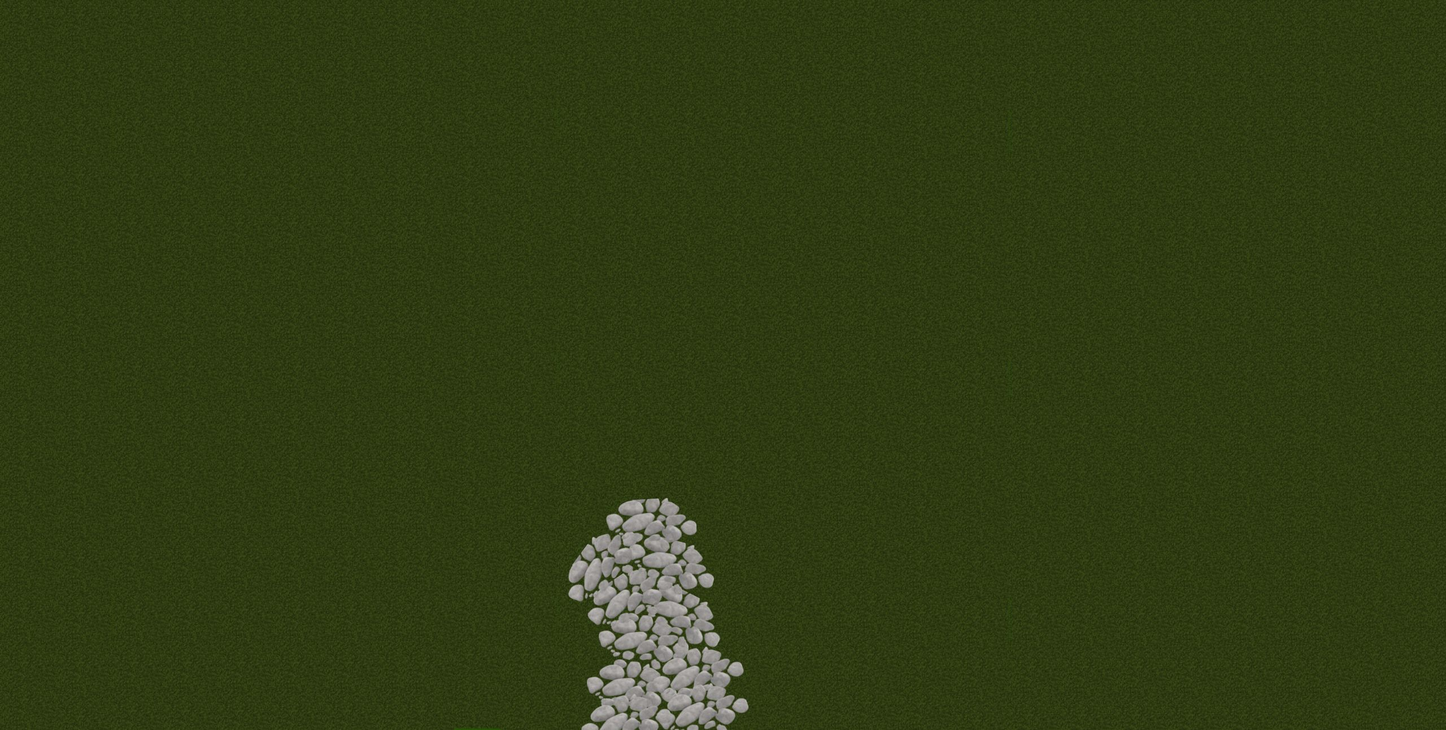
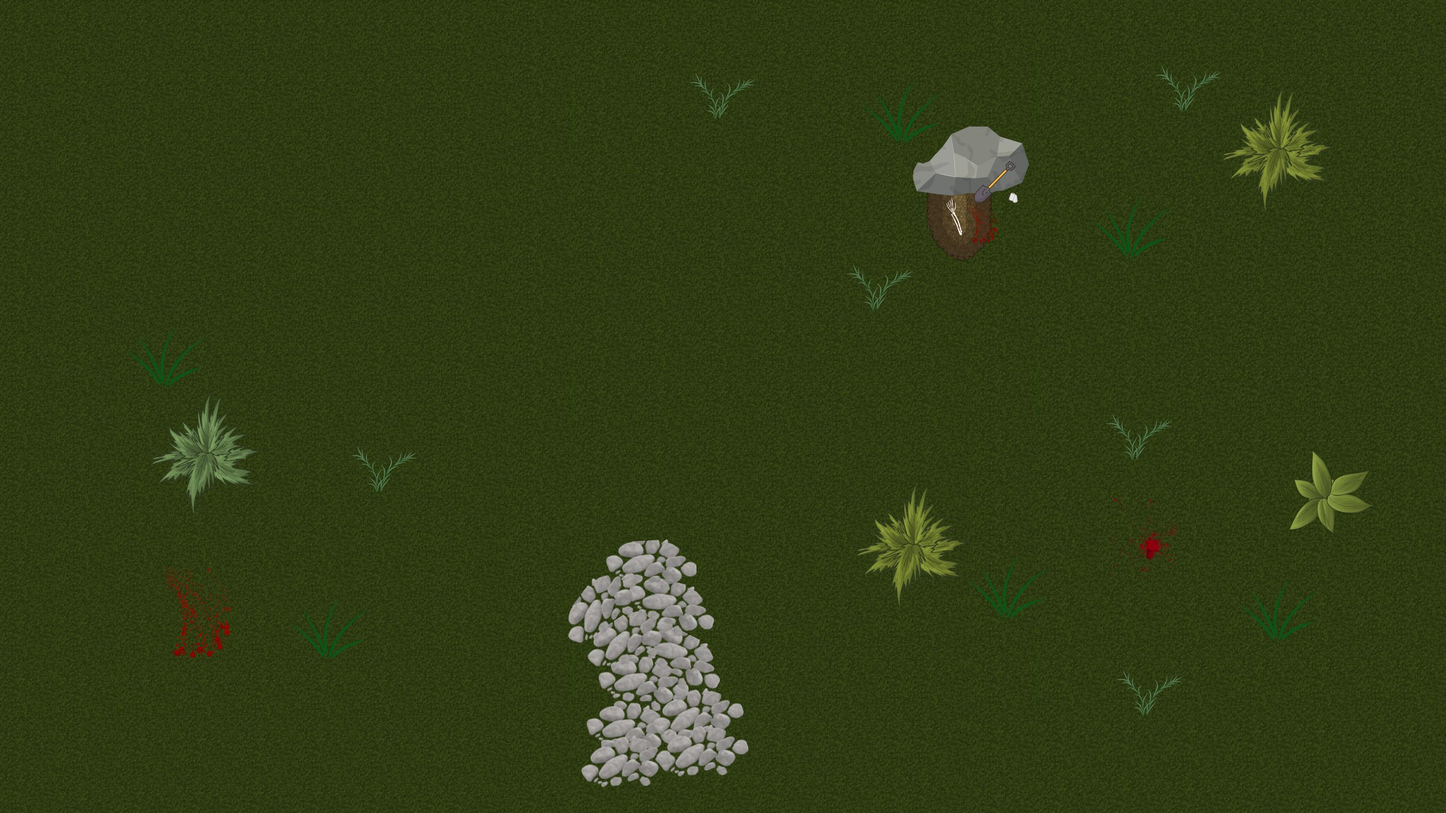
🔥 Clean and resolve some errors

diff --git a/src/Class/GameEngine.ts b/src/Class/GameEngine.ts
@@ -74,15 +74,15 @@ export class GameEngine {
 
   makeMap() {
     this.objects.push(
-      new Inanimate({ x: 0, y: 6 }, { h: 400, w: 250 }, "car", 0),
-      new Inanimate({ x: 25, y: 30 }, { h: 175, w: 300 }, "camp", 0)
+      new Inanimate({ x: 0, y: 10 }, { h: 400, w: 250 }, "car", 0),
+      new Inanimate({ x: 25, y: 30 }, { h: 175, w: 300 }, "camp", 0),
+      new Inanimate({ x: 23, y: 30 }, { h: 175, w: 300 }, "bed", 290)
     );
   }
 
   manageClock() {
     this.clock.update();
     const maxLevel = 5;
-    const numberDays = maxLevel - 1;
 
     for (let index = 0; index < maxLevel; index++) {
       if (this.clock.getDays() === index) {
@@ -90,9 +90,8 @@ export class GameEngine {
 
         if (
           this.gameLevel.getLevel() === index &&
-          this.clock.getDays() !== (0 || numberDays)
+          this.clock.getDays() !== (0 || maxLevel)
         ) {
-          console.log(this.clock);
           this.levelUp();
         }
         if (this.allDead && this.gameLevel.getLevel() === maxLevel) {
@@ -118,6 +117,10 @@ export class GameEngine {
         bullet.update();
         if (!bullet.getOut()) {
           bulletsAlives.push(bullet);
+          this.character.setShoot(true);
+        } else {
+          //this.gameSound.playHit();
+          this.character.setShoot(false);
         }
       });
       this.enemies.forEach((enemy) => {
@@ -129,6 +132,7 @@ export class GameEngine {
           if (enemy.checkCollision(bullet)) {
             bullet.destroy(bulletsAlives);
             this.character.addKill();
+            this.character.setShoot(false);
           }
         });
         if (bulletsAlives.length === 0) {

diff --git a/src/Class/GameClock.ts b/src/Class/GameClock.ts
@@ -1,3 +1,4 @@
+import { BsArrowCounterclockwise } from "react-icons/bs";
 import { ClockStatus } from "../types/CommunType";
 
 export class GameClock {
@@ -16,14 +17,16 @@ export class GameClock {
     this.minutes = 0;
     this.days = 0;
     this.time = time;
-    this.speed = 20;
+    this.speed = 200;
     this.hourDay = { day: 8, night: 20 };
   }
   update() {
     this.time += this.speed;
     //24h = 86400s
+
     const oneday = 86400;
-    const onemorning = 28800 + oneday;
+    const heightHours = 28800;
+    const onemorning = heightHours + oneday;
 
     if (this.hours >= this.hourDay.day && this.hours < this.hourDay.night) {
       this.status = "Day";
@@ -36,7 +39,11 @@ export class GameClock {
     if (this.time > oneday) {
       this.hours = this.hours % 24;
     }
-    this.days = Math.floor(this.time / onemorning);
+    if (this.time < onemorning) {
+      this.days = Math.floor(this.time / onemorning);
+    } else {
+      this.days = Math.floor((this.time - heightHours) / oneday);
+    }
 
     let hourStr = this.hours < 10 ? "0" + this.hours : this.hours;
     let minutesStr = this.minutes < 10 ? "0" + this.minutes : this.minutes;

diff --git a/src/Class/Object/GameObject.ts b/src/Class/Object/GameObject.ts
@@ -11,6 +11,10 @@ export class GameObject {
   radius: number = 0;
   points: Coord[] = [];
   stopped: boolean = false;
+  design: { type: number | null; animation: number | null } = {
+    type: null,
+    animation: null,
+  };
 
   checkCollision(object: GameObject) {
     if (
@@ -22,6 +26,22 @@ export class GameObject {
       !object.out
     ) {
       this.out = true;
+      return true;
+    }
+    return false;
+  }
+  /**
+   * TODO: REFACTOR THIS METHOD
+   * @param object
+   * @returns
+   */
+
+  checkCollisionWithRadius(object: GameObject) {
+    const distance = Math.sqrt(
+      Math.pow(this.position.x - object.position.x, 2) +
+        Math.pow(this.position.y - object.position.y, 2)
+    );
+    if (distance < this.radius + object.radius) {
       return true;
     }
     return false;
@@ -112,5 +132,13 @@ export class GameObject {
 
   setStopped(stopped: boolean): void {
     this.stopped = stopped;
+  }
+
+  getDesign(): { type: number | null; animation: number | null } {
+    return this.design;
+  }
+
+  setDesign(design: { type: number | null; animation: number | null }): void {
+    this.design = design;
   }
 }

diff --git a/src/Class/Object/Inanimate.ts b/src/Class/Object/Inanimate.ts
@@ -1,5 +1,6 @@
 import { Coord, Size, TypeObject } from "../../types/CommunType";
 import { degreeToRadian } from "../../utils/helper";
+import { getRandomFloat } from "../../utils/random";
 import { gameEvent } from "../GameEventDom";
 import { GameObject } from "./GameObject";
 
@@ -16,6 +17,17 @@ export class Inanimate extends GameObject {
     this.type = type;
     this.degree = degree;
     this.radius = degreeToRadian(this.degree);
+    this.manageDesign();
+  }
+
+  manageDesign(): void {
+    if (this.type === "tree") {
+      this.design.type = getRandomFloat(1, 3, 0);
+      this.design.animation = 0;
+    } else if (this.type === "bush") {
+      this.design.type = getRandomFloat(1, 2, 0);
+      this.design.animation = 0;
+    }
   }
 
   postitionFromPercentToPixel(position: Coord): void {

diff --git a/src/Class/Object/Enemy.ts b/src/Class/Object/Enemy.ts
@@ -7,7 +7,7 @@ export class Enemy extends GameObject {
   health: number = 1;
   damage: number = 1;
   level: number = 1;
-  design: { type: number; animation: number };
+
   constructor(level: number) {
     super();
     this.position = this.setPosition();
@@ -116,13 +116,5 @@ export class Enemy extends GameObject {
 
   setLevel(level: number): void {
     this.level = level;
-  }
-
-  getDesign(): { type: number; animation: number } {
-    return this.design;
-  }
-
-  setDesign(design: { type: number; animation: number }): void {
-    this.design = design;
   }
 }

diff --git a/src/components/GameObject.tsx b/src/components/GameObject.tsx
@@ -7,7 +7,7 @@ type GameObjectProps = {
 const GameObject = ({ item }: GameObjectProps) => {
   return (
     <div
-      className={`gameObject ${item.getType()}`}
+      className={`gameObject ${item.getType() + (item.getDesign().type ?? "")}`}
       style={{
         top: item.getPosition().y + "px",
         left: item.getPosition().x + "px",

diff --git a/src/types/CommunType.ts b/src/types/CommunType.ts
@@ -26,4 +26,11 @@ export type numberEnemy = { amount: number; levelZombie: number };
 
 export type ClockStatus = "Day" | "Night";
 
-export type TypeObject = "car" | "camp" | "fencew" | "tree" | "fenceh" | "bush";
+export type TypeObject =
+  | "car"
+  | "camp"
+  | "fencew"
+  | "tree"
+  | "fenceh"
+  | "bush"
+  | "bed";

diff --git a/src/css/board.scss b/src/css/board.scss
@@ -28,6 +28,10 @@
     background: url("../assets/objects/camp.webp") no-repeat;
     background-size: contain;
   }
+  .bed {
+    background: url("../assets/objects/bed.webp") no-repeat;
+    background-size: contain;
+  }
 
   .fencew {
     background: url("../assets/objects/fencew.webp") no-repeat;

diff --git a/src/App.tsx b/src/App.tsx
@@ -8,7 +8,6 @@ import {
 import { gameEngine } from "./Class/GameEngine";
 import { gameEvent } from "./Class/GameEventDom";
 import GameBoard from "./components/GameBoard";
-import GameInformations from "./components/GameInformations";
 import "./css/styles.scss";
 
 function App() {

diff --git a/src/Class/GameEventDom.ts b/src/Class/GameEventDom.ts
@@ -16,6 +16,7 @@ export class GameEventDom {
     this.gameSize = { w: window.innerWidth, h: window.innerHeight };
   }
   init() {
+    document.body.requestFullscreen();
     gameEngine.play();
   }
 
